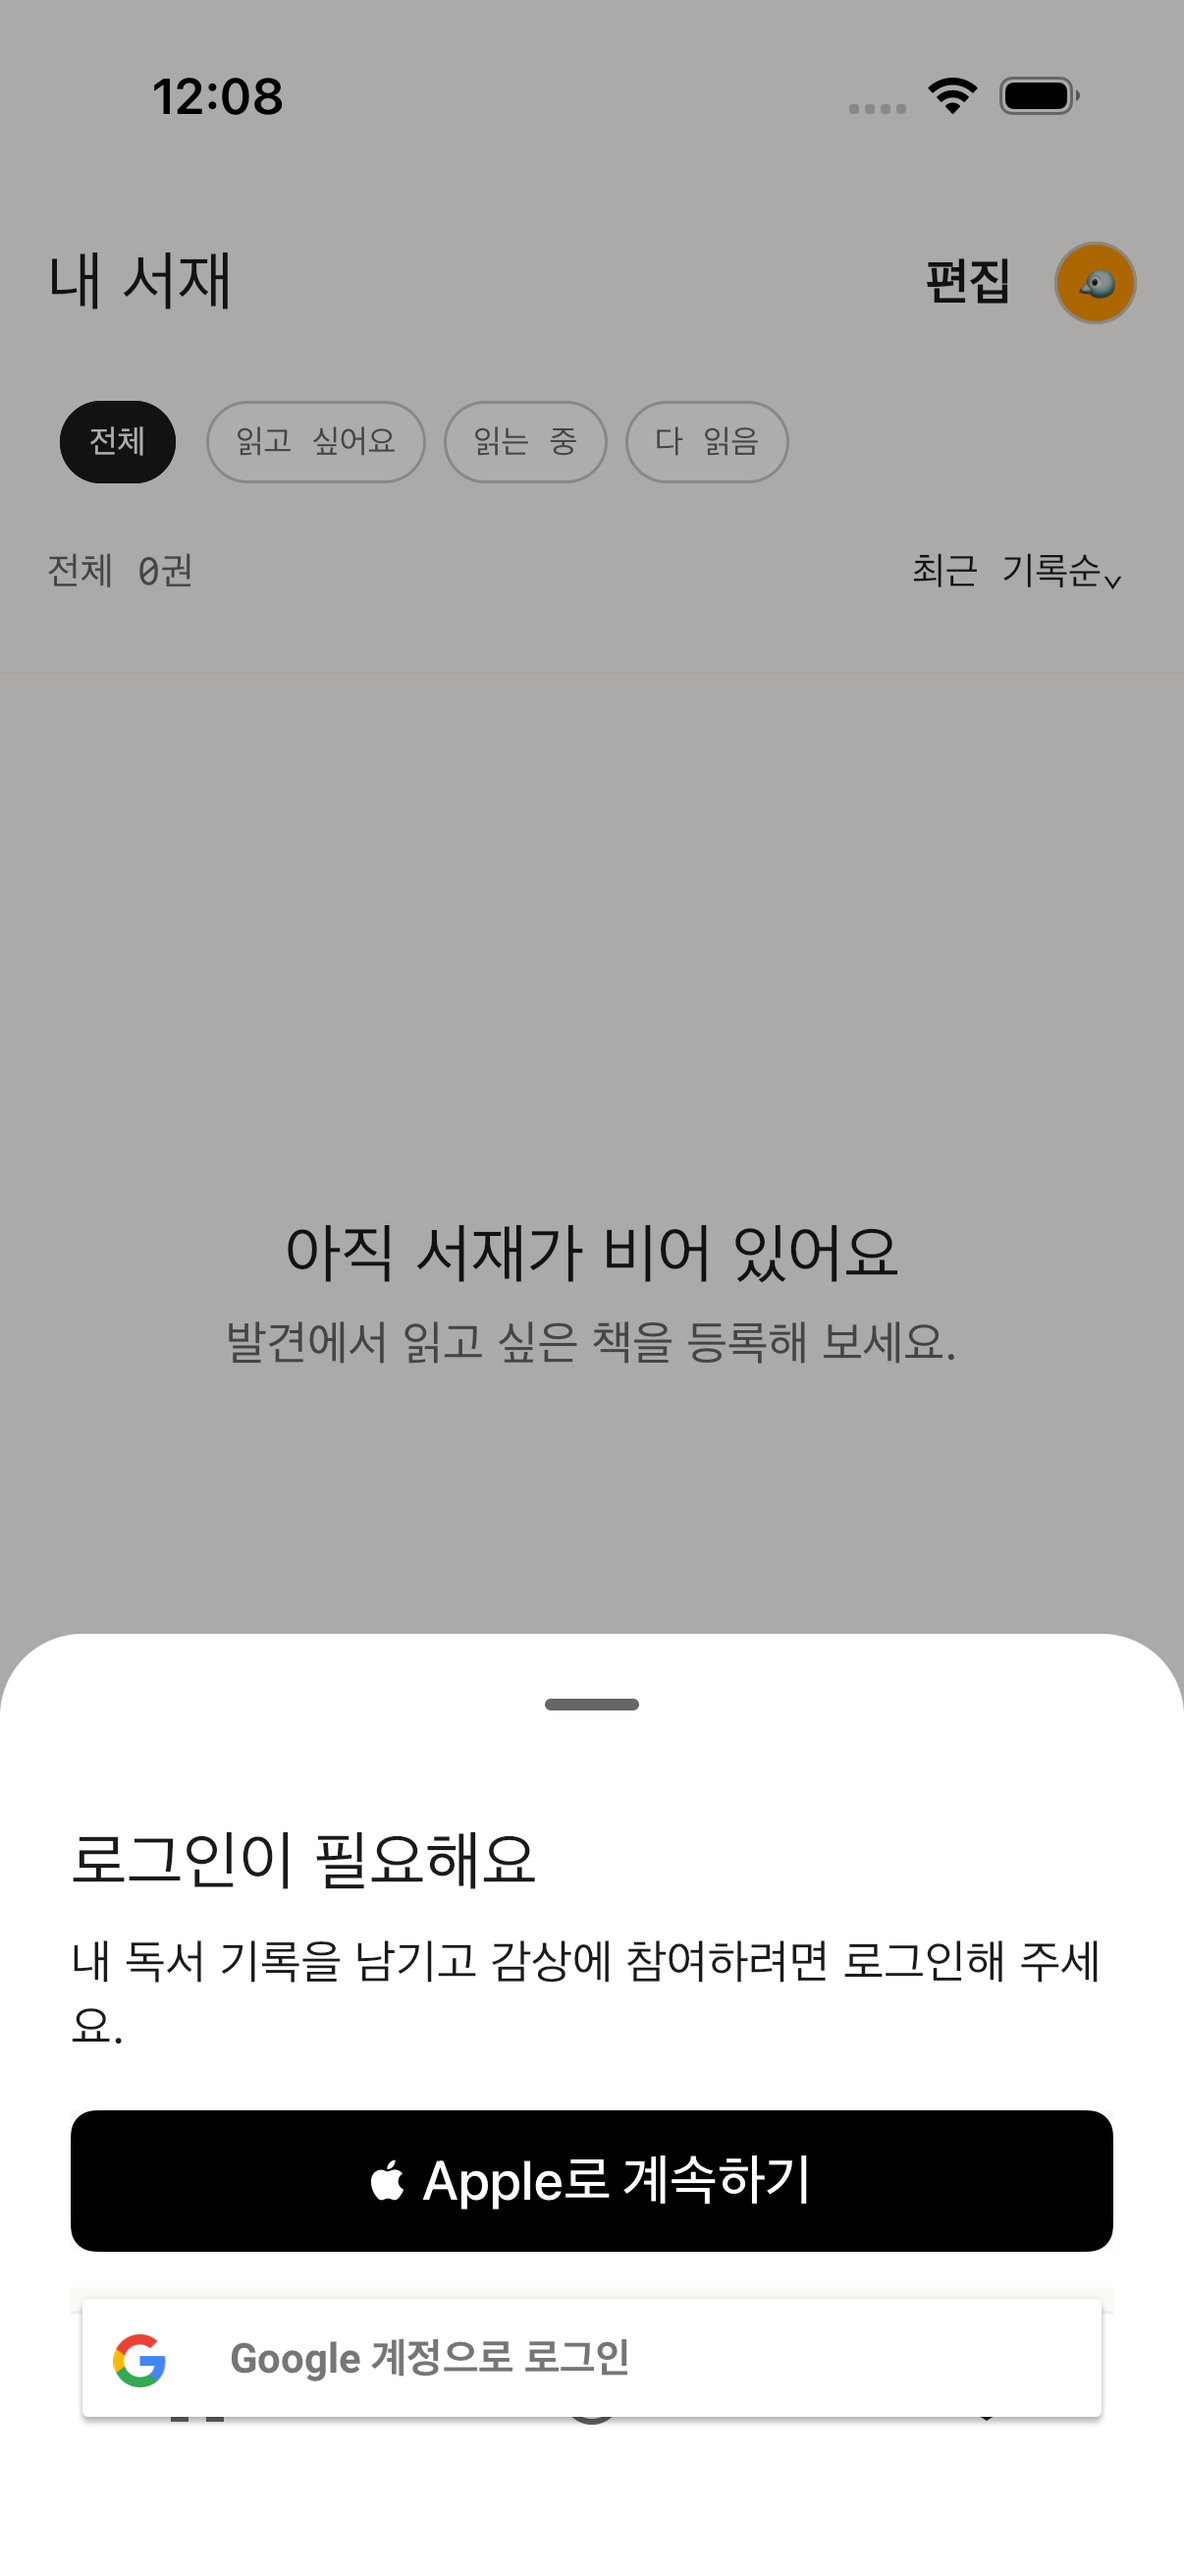
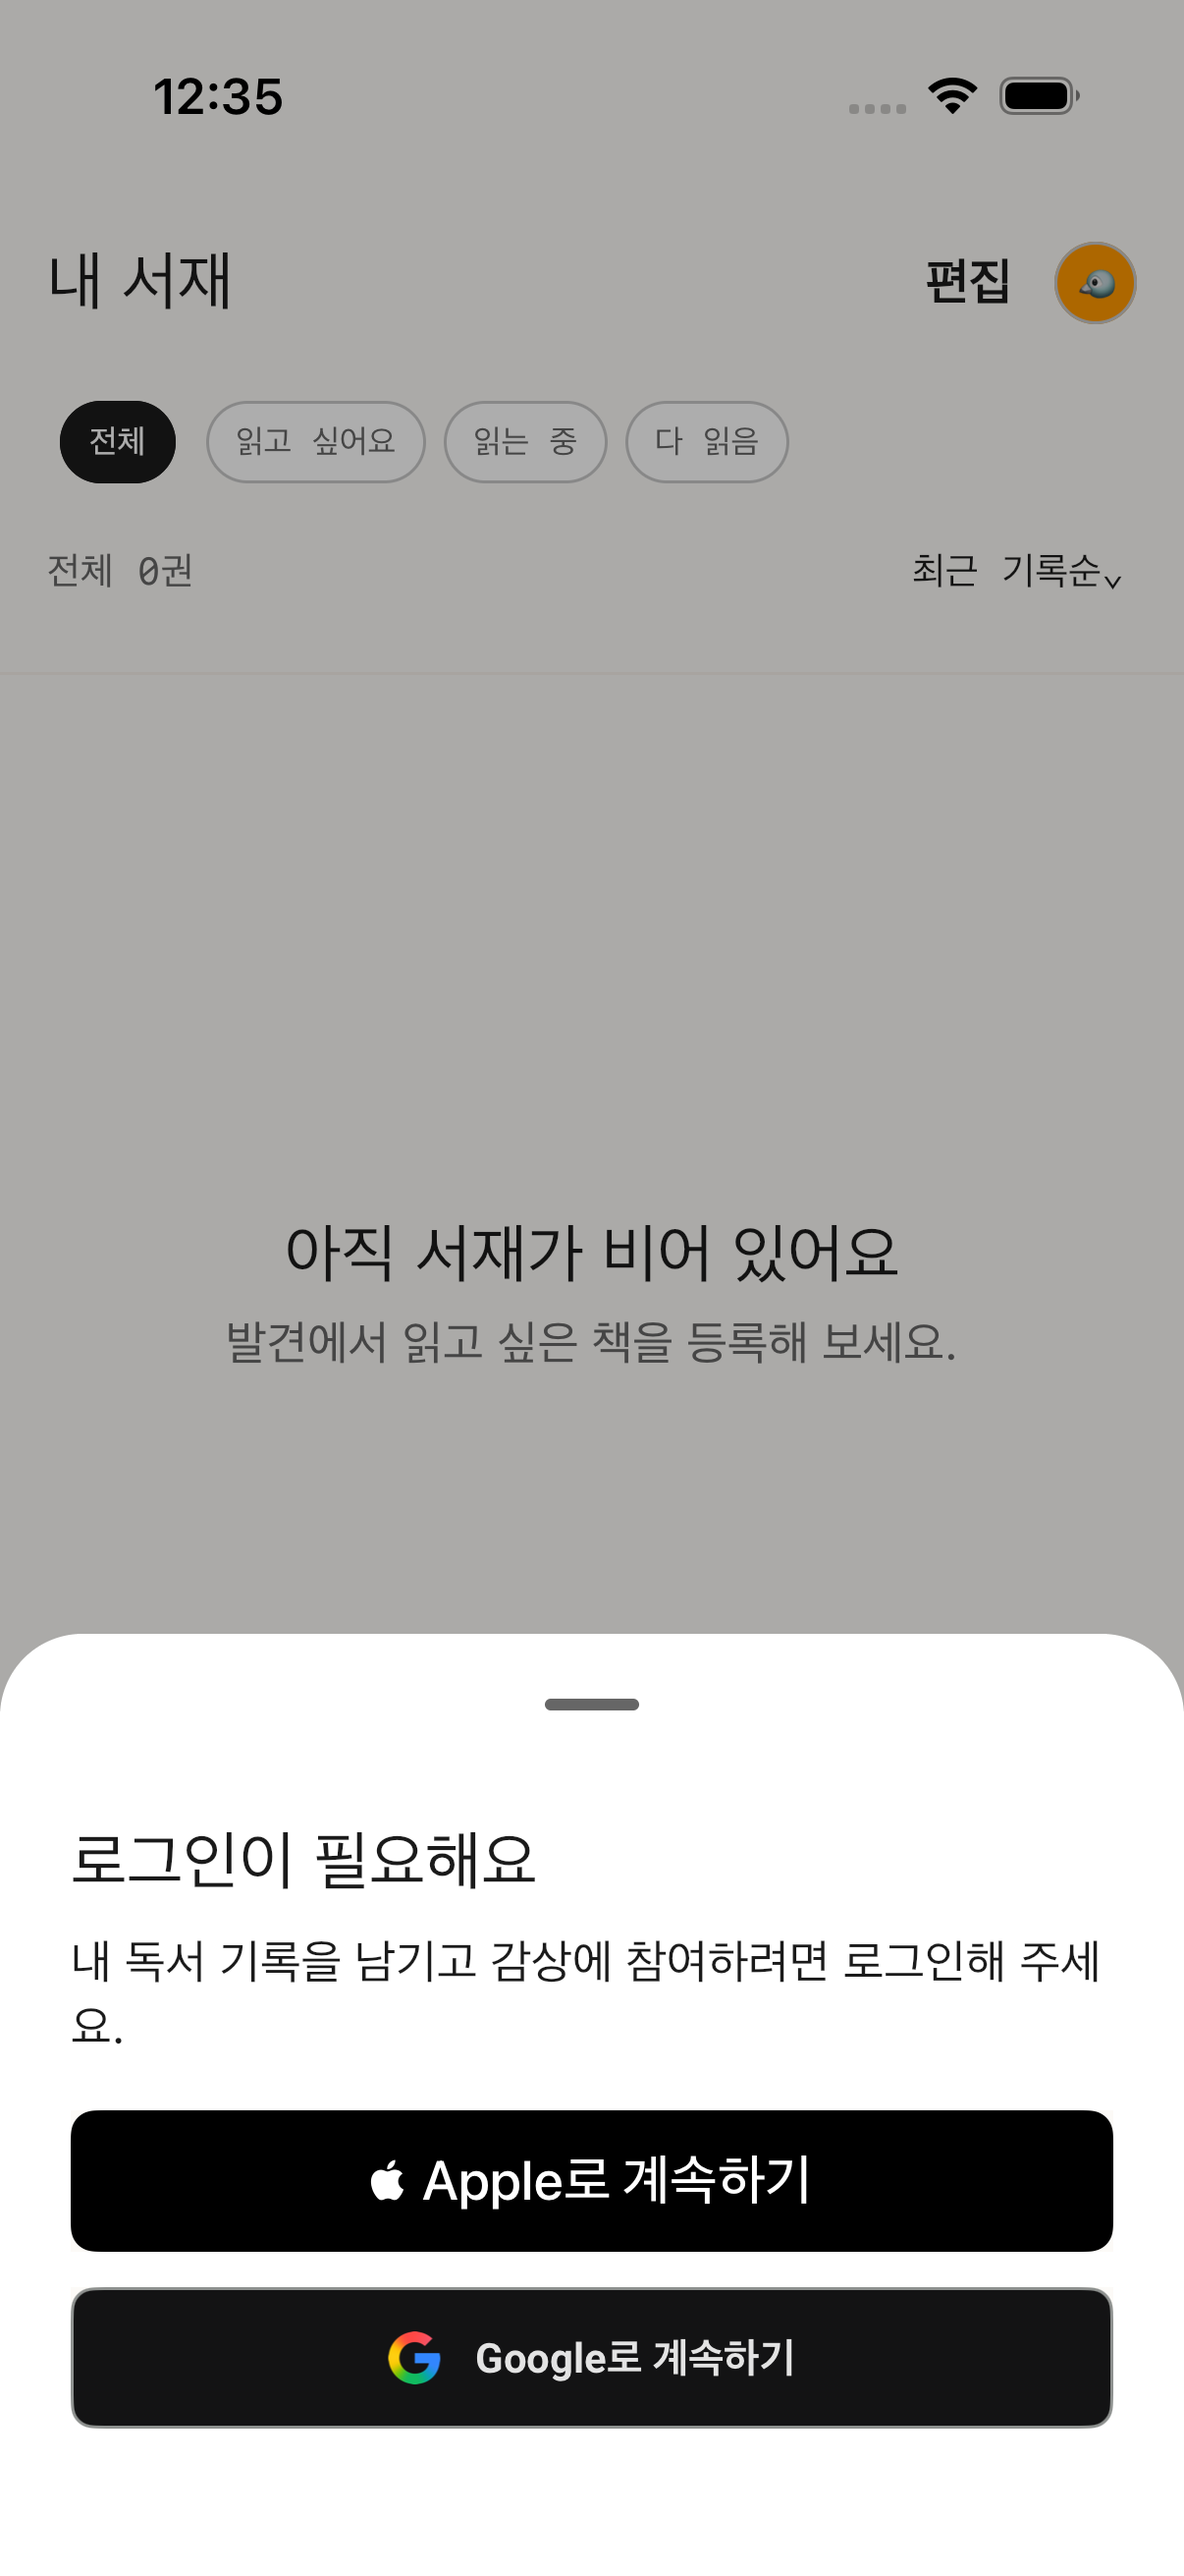
fix(ios): Google 로그인 버튼을 Apple 형식으로 맞춘다

Changed region(s): [[0.0614, 0.865, 0.9511, 0.9577], [0.1841, 0.0309, 0.2454, 0.0618]]

diff --git a/android/iosApp/Chaekchaek/ContentView.swift b/android/iosApp/Chaekchaek/ContentView.swift
@@ -56,14 +56,68 @@ private struct ComposeViewController: UIViewControllerRepresentable {
         )
         return MainViewControllerKt.MainViewController(
             authPlatform: authPlatform,
-            createGoogleSignInButton: {
-                let button = GIDSignInButton()
-                button.style = .wide
-                button.colorScheme = .light
-                return button
-            }
+            createGoogleSignInButton: GoogleSignInControl.init
         )
     }
 
     func updateUIViewController(_ uiViewController: UIViewController, context: Context) {}
+}
+
+private final class GoogleSignInControl: UIControl {
+    private let logo: UIImage
+    private let providerFont: UIFont
+
+    override var isEnabled: Bool {
+        didSet { updateAlpha() }
+    }
+
+    override var isHighlighted: Bool {
+        didSet { updateAlpha() }
+    }
+
+    init() {
+        _ = GIDSignInButton()
+        logo = UIImage(named: "GoogleSignInLogo") ?? UIImage()
+        providerFont = UIFont(name: "Roboto-Bold", size: 14) ?? .systemFont(ofSize: 14, weight: .medium)
+        super.init(frame: .zero)
+
+        backgroundColor = UIColor(red: 19.0 / 255.0, green: 19.0 / 255.0, blue: 20.0 / 255.0, alpha: 1)
+        clipsToBounds = true
+        layer.cornerRadius = 8
+        layer.borderColor = UIColor(red: 142.0 / 255.0, green: 145.0 / 255.0, blue: 143.0 / 255.0, alpha: 1).cgColor
+        layer.borderWidth = 1
+
+        isAccessibilityElement = true
+        accessibilityIdentifier = "GIDSignInButton"
+        accessibilityLabel = "Google로 계속하기"
+        accessibilityTraits = .button
+    }
+
+    override func draw(_ rect: CGRect) {
+        let title = "Google로 계속하기"
+        let attributes: [NSAttributedString.Key: Any] = [
+            .font: providerFont,
+            .foregroundColor: UIColor(red: 227.0 / 255.0, green: 227.0 / 255.0, blue: 227.0 / 255.0, alpha: 1),
+        ]
+        let textSize = title.size(withAttributes: attributes)
+        let logoHeight = 18.0
+        let logoWidth = logoHeight * logo.size.width / logo.size.height
+        let contentWidth = logoWidth + 12 + textSize.width
+        let contentX = (bounds.width - contentWidth) / 2
+
+        logo.draw(in: CGRect(x: contentX, y: (bounds.height - logoHeight) / 2, width: logoWidth, height: logoHeight))
+        title.draw(
+            at: CGPoint(x: contentX + logoWidth + 12, y: (bounds.height - textSize.height) / 2),
+            withAttributes: attributes
+        )
+    }
+
+    @available(*, unavailable)
+    required init?(coder: NSCoder) {
+        fatalError("init(coder:) has not been implemented")
+    }
+
+    private func updateAlpha() {
+        alpha = isEnabled && !isHighlighted ? 1 : 0.5
+    }
 }

diff --git a/.codex/hooks/chaekchaek-design-system-guard.py b/.codex/hooks/chaekchaek-design-system-guard.py
@@ -18,13 +18,13 @@ STATE_VERSION = 1
 HIG_TEXT_SIZES = {11.0, 12.0, 13.0, 15.0, 16.0, 17.0, 20.0, 22.0, 28.0, 34.0}
 APPROVED_COLORS = {
     "#00000000", "#00000022", "#00000033", "#00000073", "#171717",
-    "#1A1A1A", "#242424", "#252525", "#302C27", "#4A3520", "#4A4035",
+    "#131314", "#1A1A1A", "#242424", "#252525", "#302C27", "#4A3520", "#4A4035",
     "#666666", "#7A7570", "#999999", "#A05A27", "#AAA39A", "#C92A24",
-    "#C9C3BA", "#C9C9C9", "#EEEEEE", "#F0F0EC", "#F1E9DE", "#F6F2EC",
+    "#8E918F", "#C9C3BA", "#C9C9C9", "#E3E3E3", "#EEEEEE", "#F0F0EC", "#F1E9DE", "#F6F2EC",
     "#F7F2EC", "#F7F2ECCC", "#FCFAF7", "#FF6B5A", "#FF9800", "#FFB74D",
     "#FFBF66", "#FFF4DF", "#FFF4DF80", "#FFFFFF", "#FFFFFFB8",
 }
-APPROVED_FONTS = {"Funnel Sans", "Geist Mono", "Newsreader"}
+APPROVED_FONTS = {"Funnel Sans", "Geist Mono", "Newsreader", "Roboto"}
 HEX_COLOR = re.compile(r"#[0-9A-Fa-f]{3}(?:[0-9A-Fa-f]{3}(?:[0-9A-Fa-f]{2})?)?\b")
 FONT_FAMILY = re.compile(r"fontFamily\s*:\s*['\"]([^'\"]+)['\"]")
 PENCIL_FONT_SIZE = re.compile(r"['\"]?fontSize['\"]?\s*:\s*(\d+(?:\.\d+)?)")
@@ -116,7 +116,8 @@ def display_size(value: float) -> str:
 def find_violations(code: str, check_font_size: bool = False) -> list[str]:
     colors = sorted({value.upper() for value in HEX_COLOR.findall(code)} - APPROVED_COLORS)
     fonts = sorted({value for value in FONT_FAMILY.findall(code) if not value.startswith("$")} - APPROVED_FONTS)
-    font_sizes = sorted({float(value) for value in PENCIL_FONT_SIZE.findall(code) if float(value) not in HIG_TEXT_SIZES}) if check_font_size else []
+    approved_sizes = HIG_TEXT_SIZES | ({14.0} if 'fontFamily:"Roboto"' in code else set())
+    font_sizes = sorted({float(value) for value in PENCIL_FONT_SIZE.findall(code) if float(value) not in approved_sizes}) if check_font_size else []
     violations = []
     if colors:
         violations.append(f"SxMn5에 없는 색상: {', '.join(colors)}")
@@ -381,6 +382,7 @@ def self_test() -> None:
     existing_worktrees = [Path(line.removeprefix("worktree ")) for line in worktrees if line.startswith("worktree ") and Path(line.removeprefix("worktree ")).exists()]
     assert existing_worktrees and all(is_project_path(path) for path in existing_worktrees)
     assert not find_violations('Update("x",{fill:"#C92A24",fontFamily:"Funnel Sans",fontSize:11})', True)
+    assert not find_violations('Update("x",{fill:"#131314",stroke:"#8E918F",fontFamily:"Roboto",fontSize:14})', True)
     assert find_violations('Update("x",{fill:"#123456"})') == ["SxMn5에 없는 색상: #123456"]
     assert find_violations('Update("x",{"fontSize":10.5})', True) == ["HIG 의미 역할에 없는 fontSize: 10.5"]
     assert exact_target_node({"tool_input": {"input": "TakeScreenshot(['target'])"}}) == "target"
